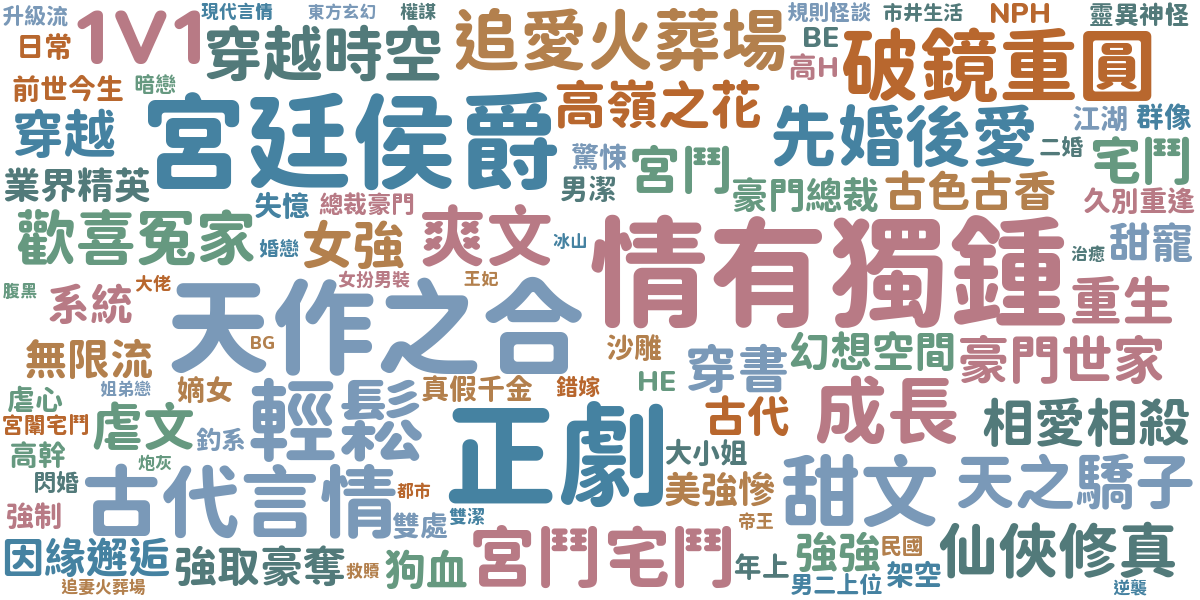
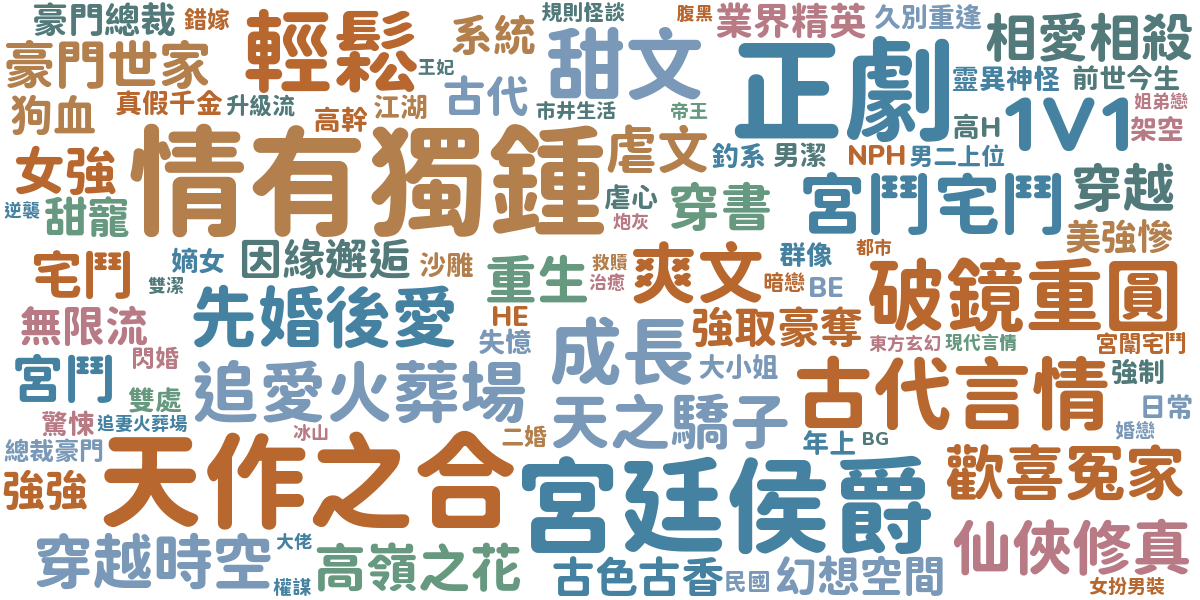
☁️ Update reading word cloud via GitHub Actions

diff --git a/public/word_cloud.html b/public/word_cloud.html
@@ -23,6 +23,6 @@
     </style>
 </head>
 <body>
-    <img src="word_cloud.png?t=1779929492" alt="Word Cloud">
+    <img src="word_cloud.png?t=1780016348" alt="Word Cloud">
 </body>
 </html>